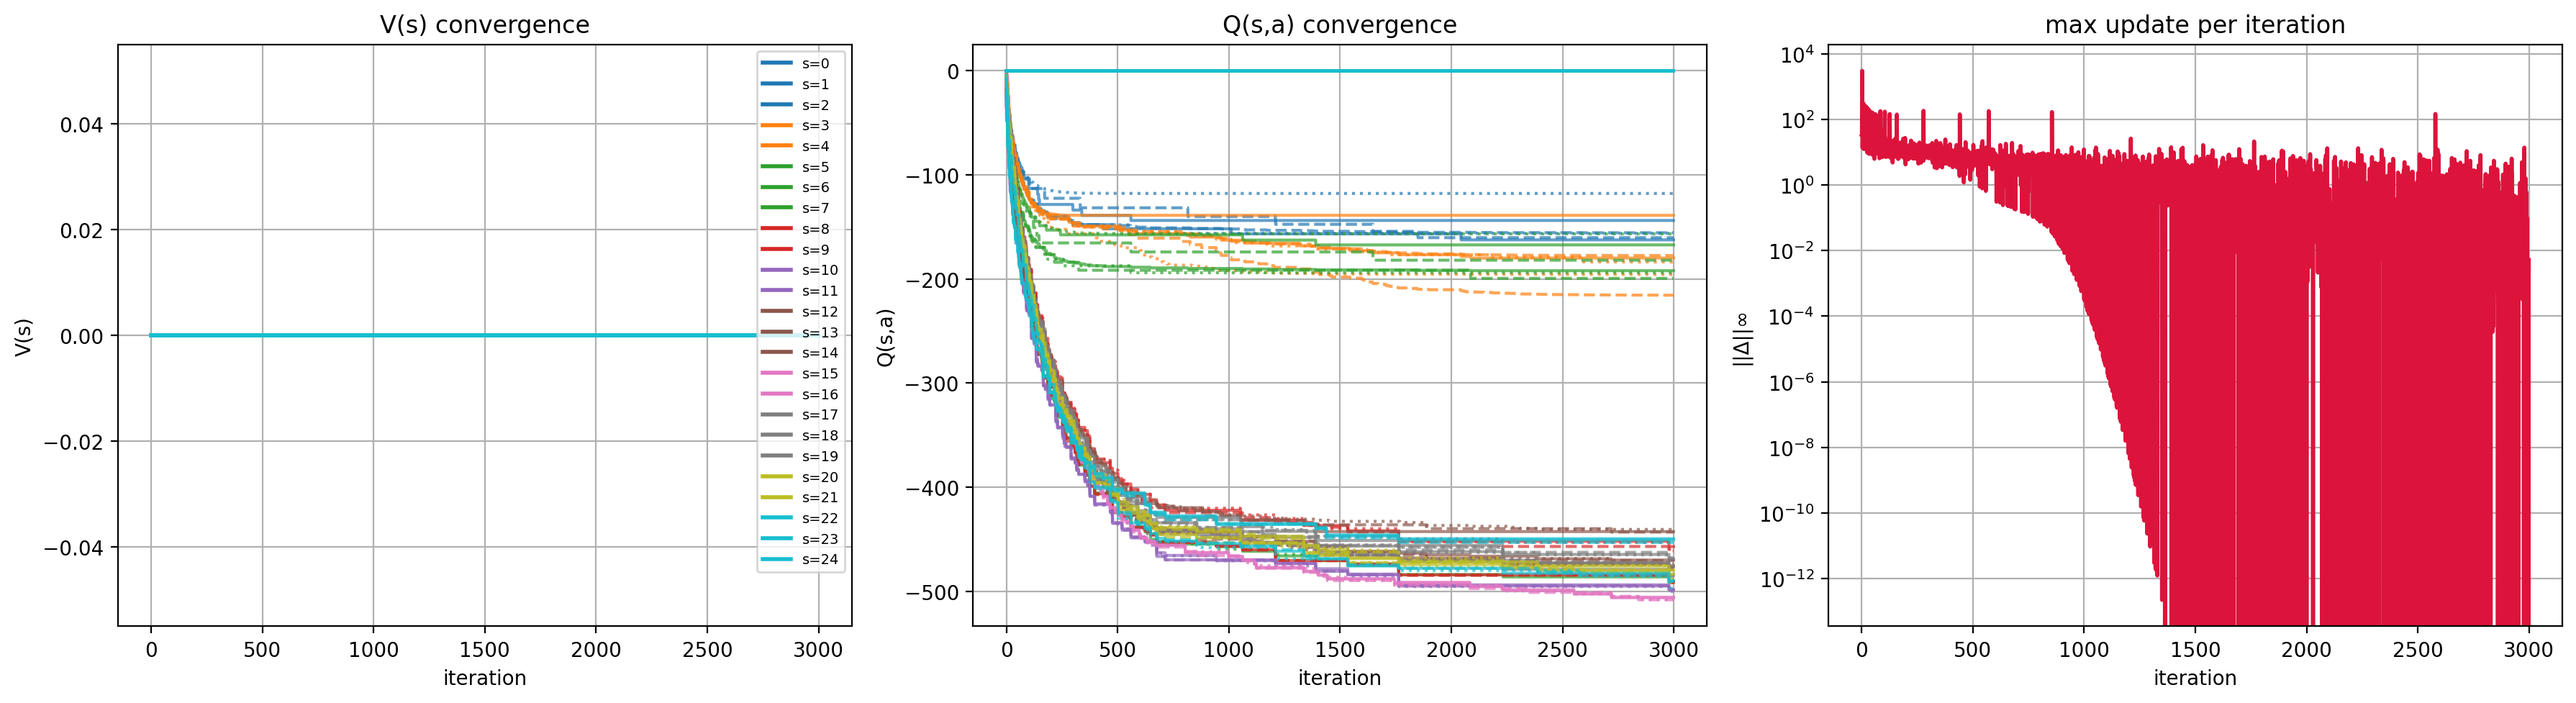
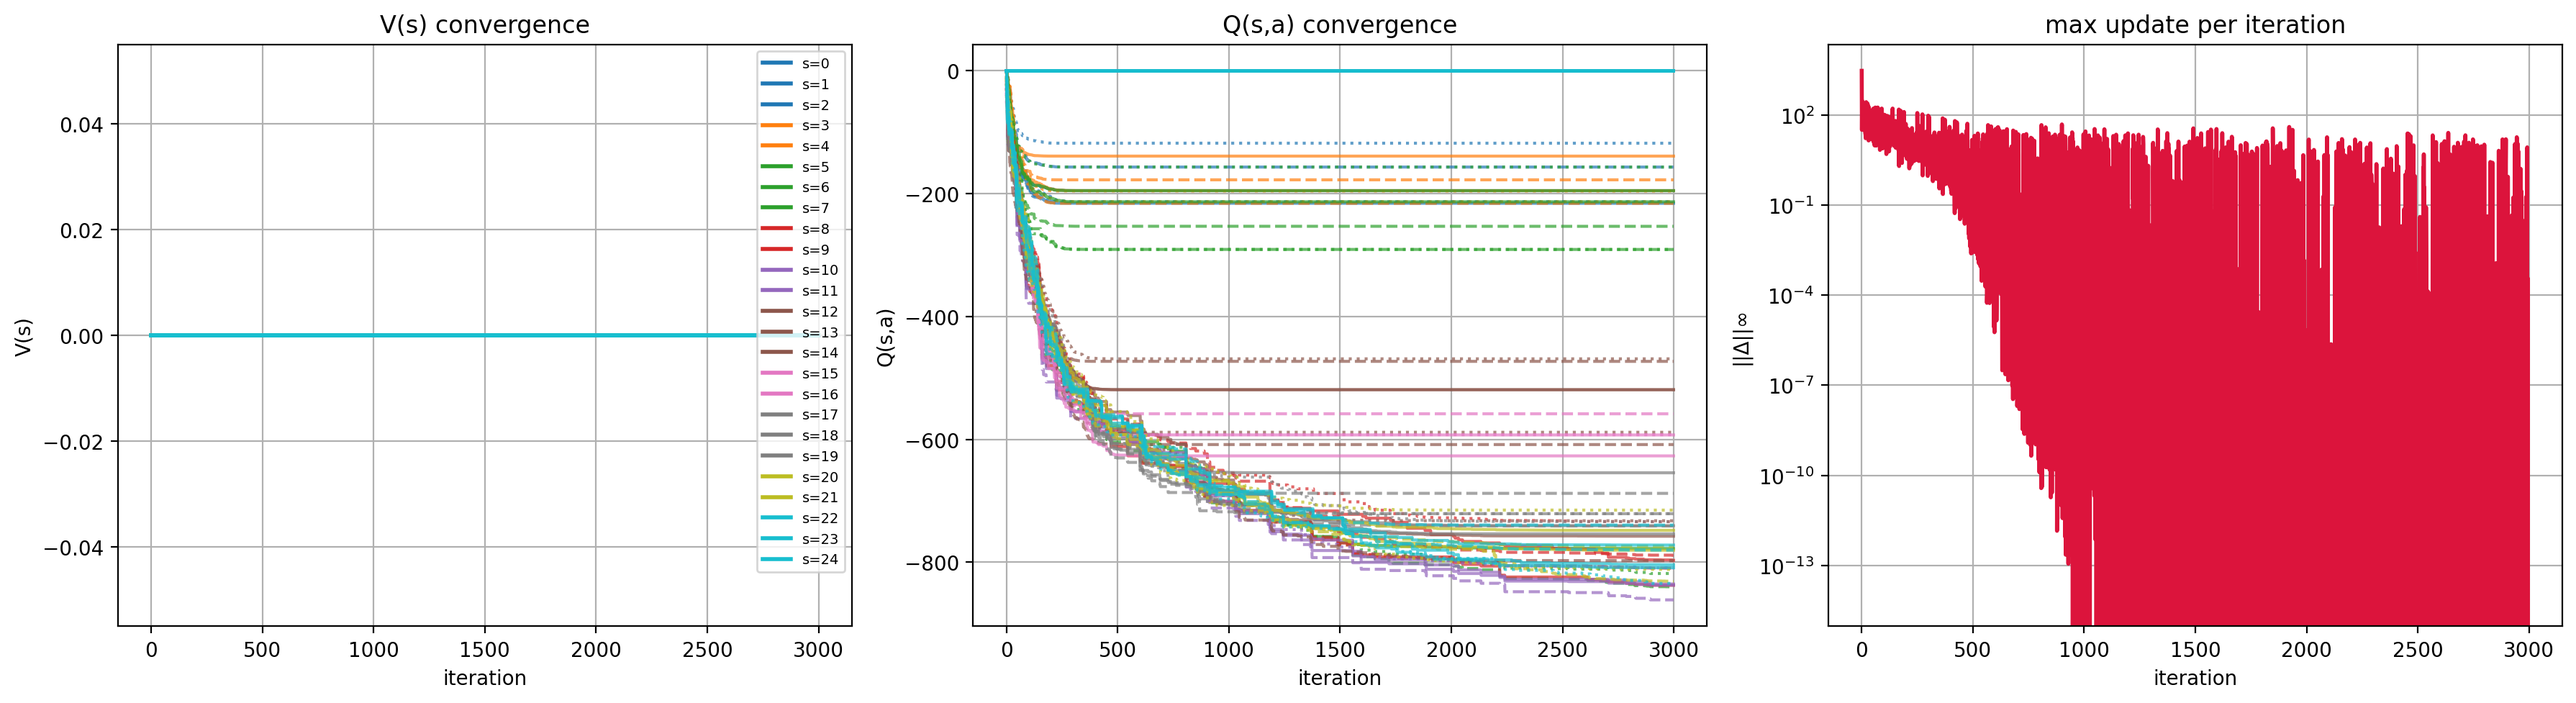
Changed Q-Learn from deterministic to exploration

diff --git a/run.py b/run.py
@@ -80,7 +80,7 @@ def parse_args():
     parser.add_argument(
         "--eps",
         type=float,
-        default=0.1,
+        default=0.9,
         help="epsilon exploration",
     )
 
